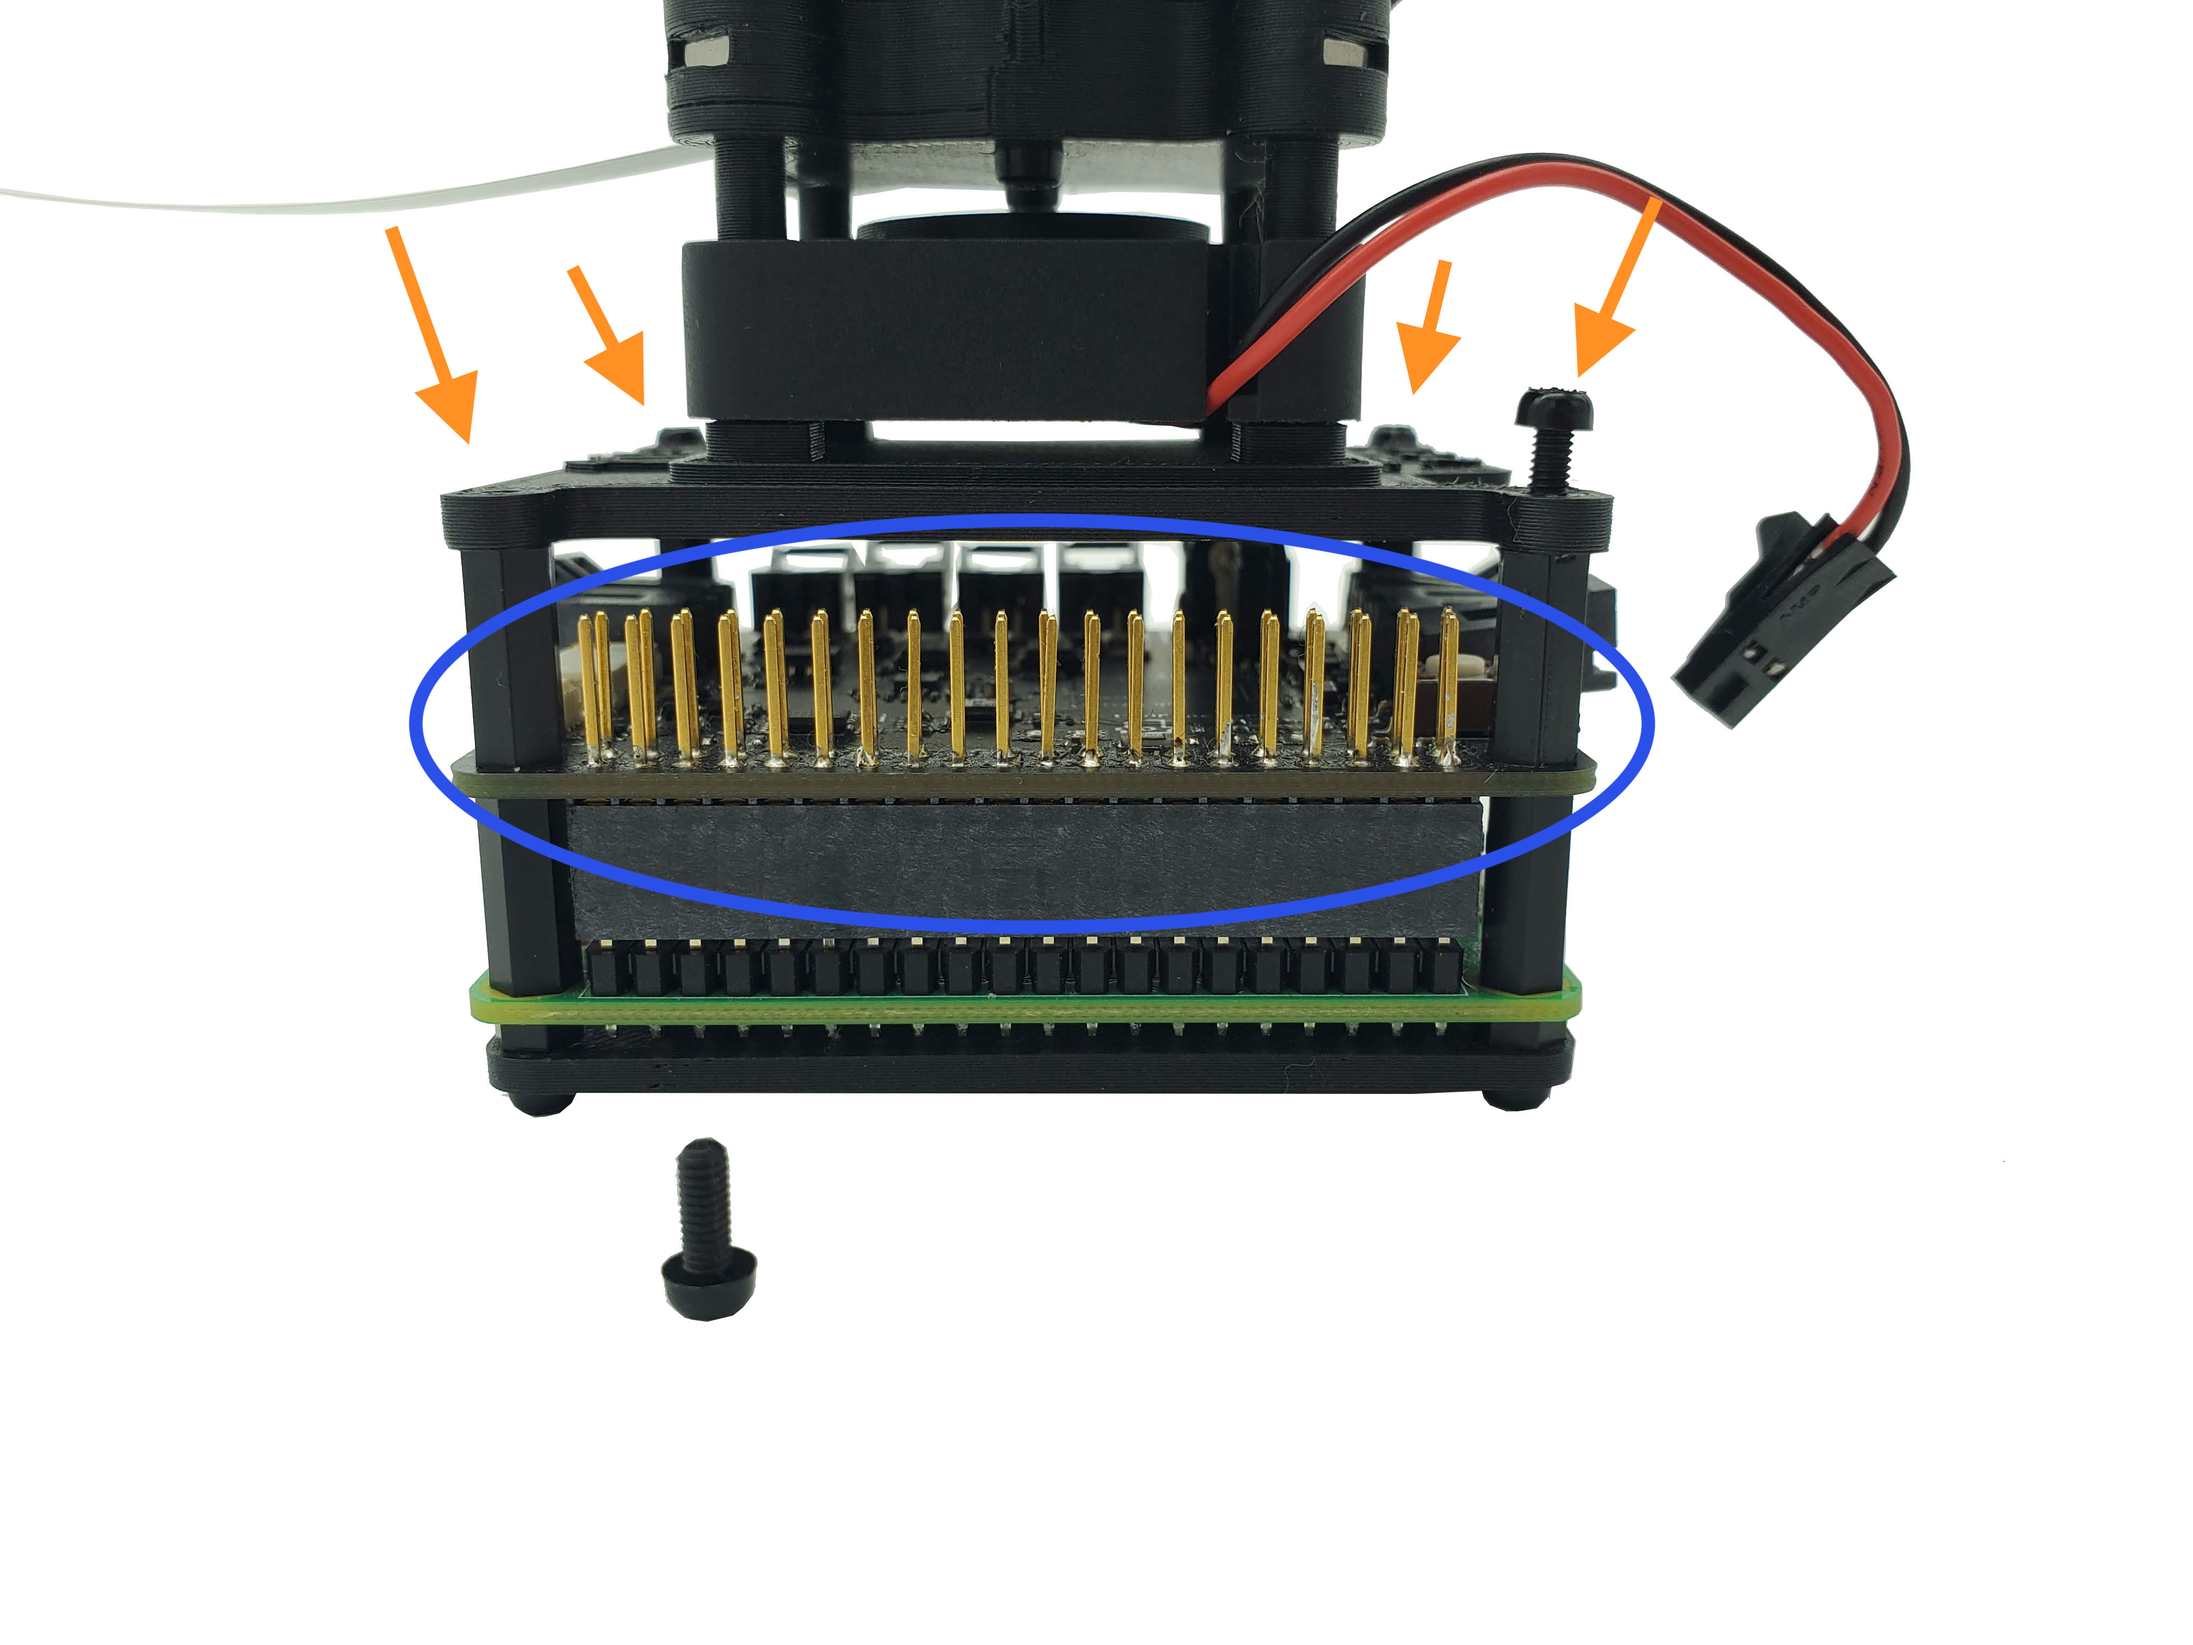
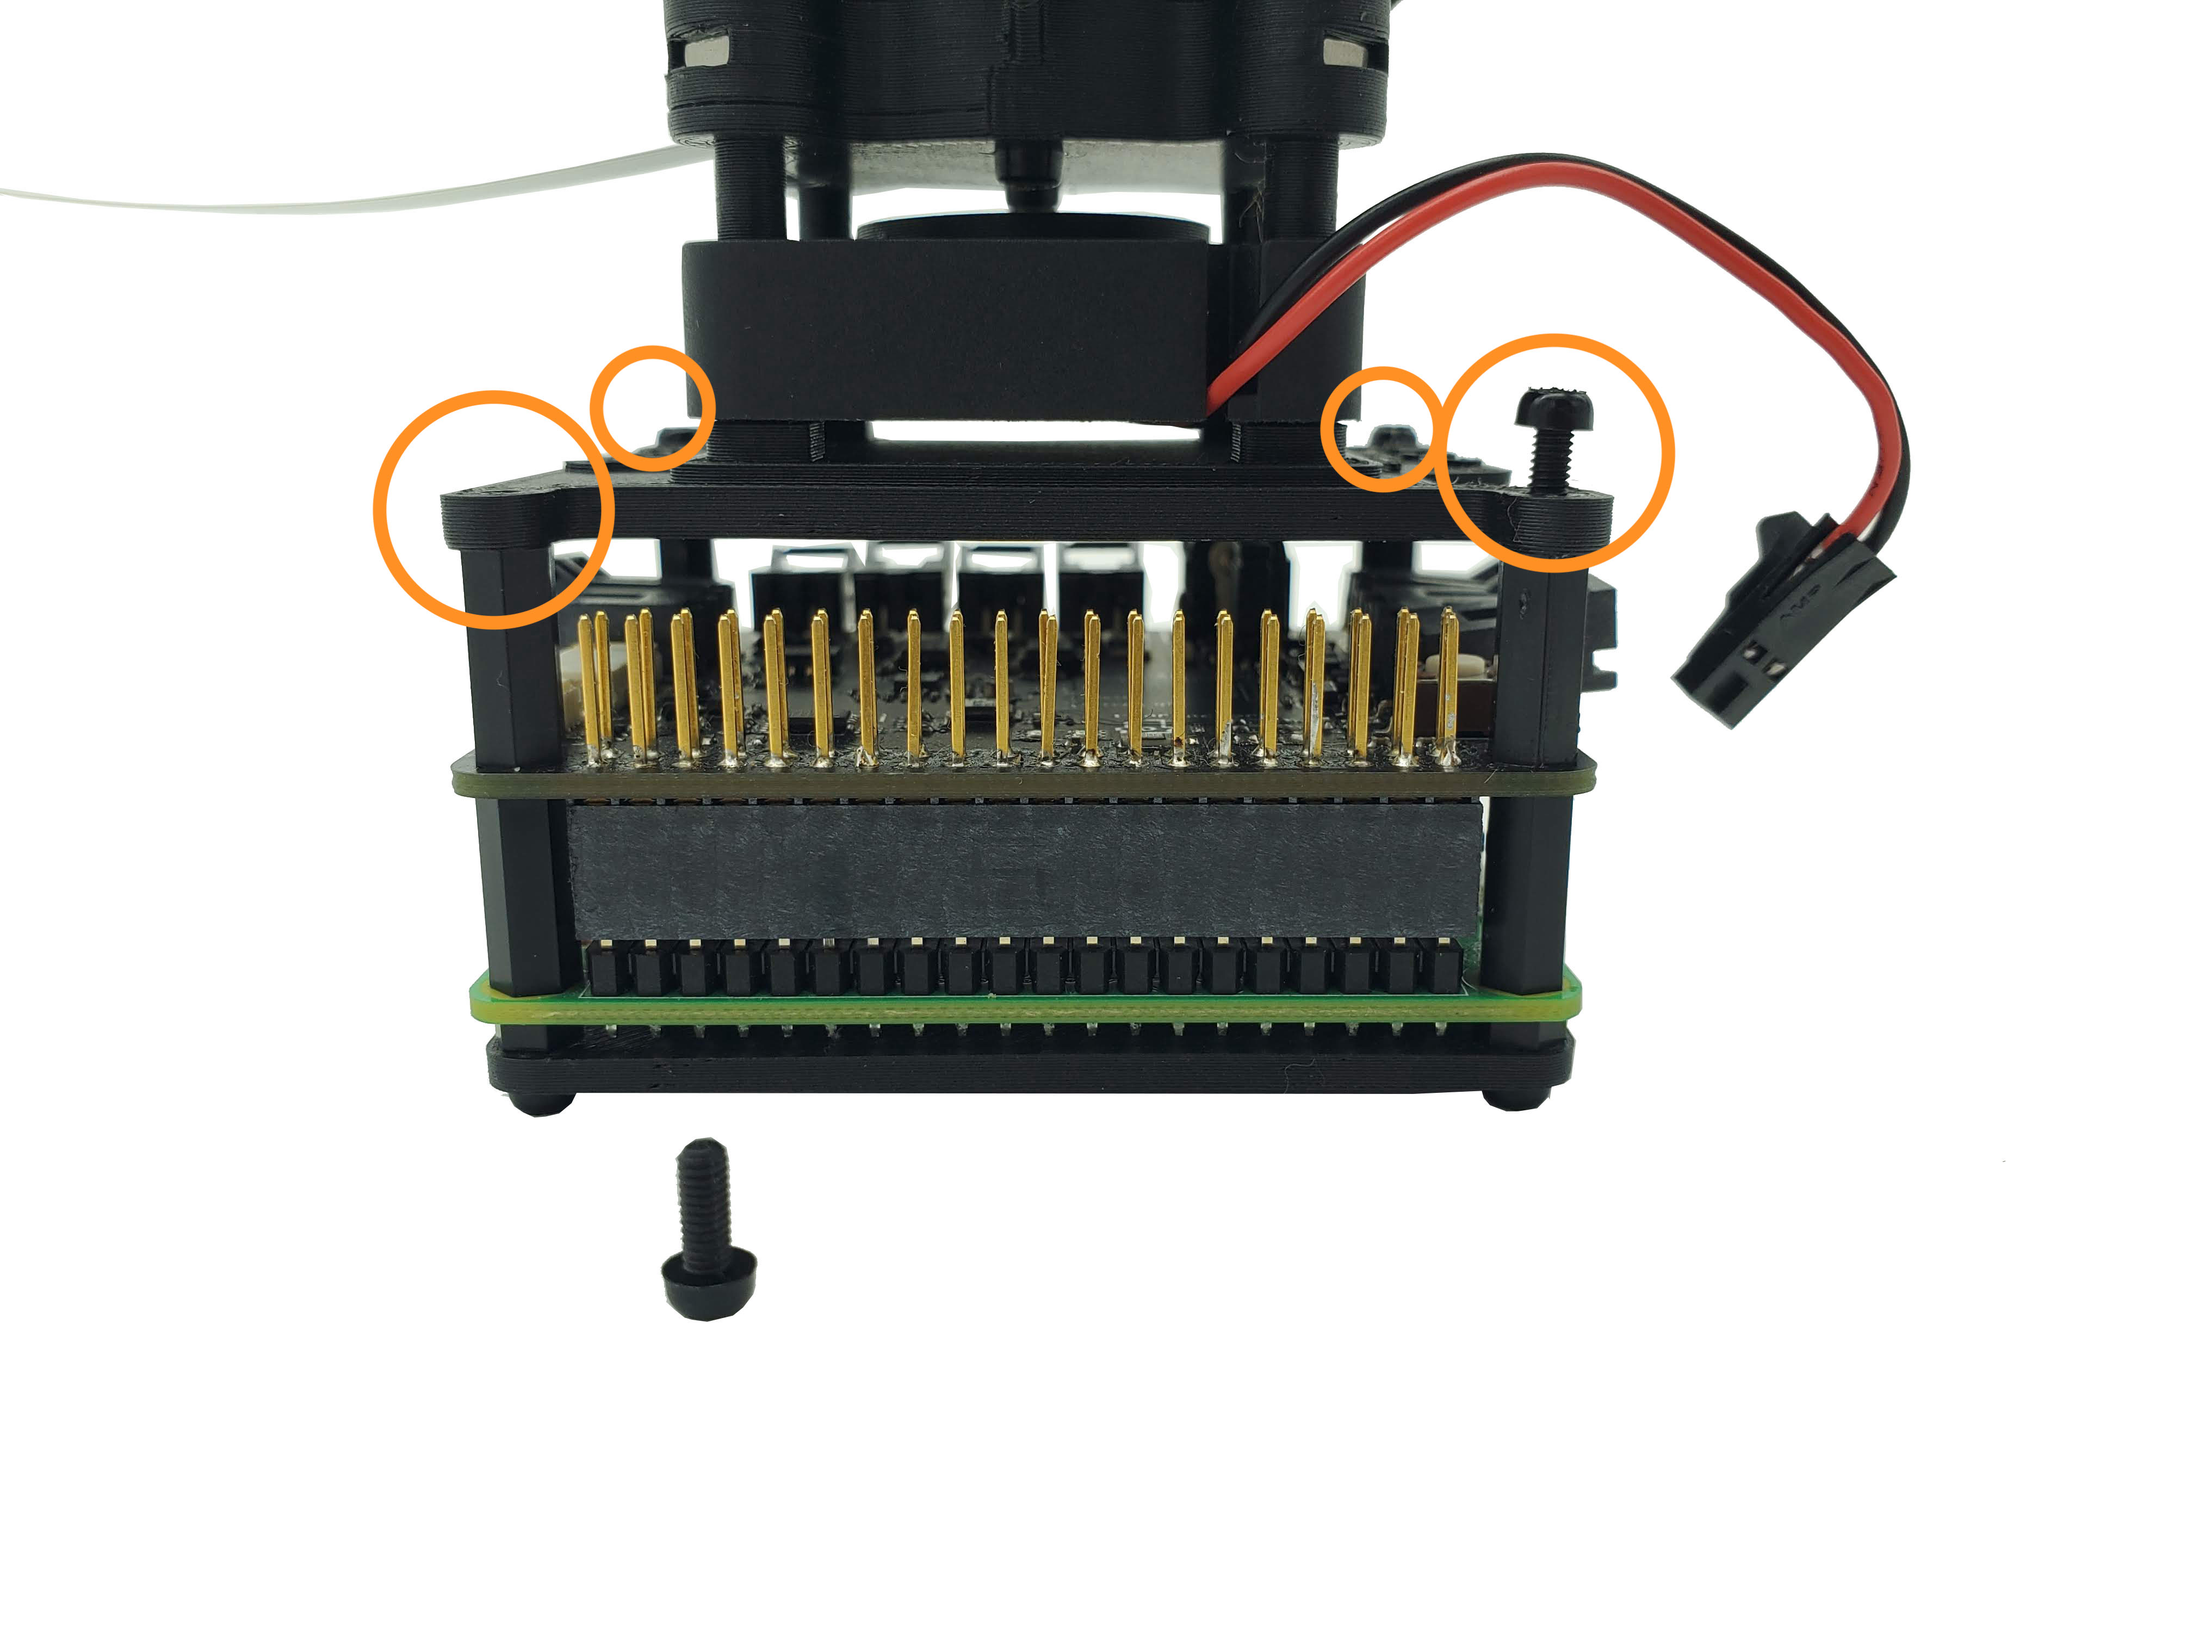
last bits

diff --git a/user-guide/01-getting-started/01-hardware-set-up/04-faceplate-all-together.md b/user-guide/01-getting-started/01-hardware-set-up/04-faceplate-all-together.md
@@ -38,7 +38,7 @@ import * as colors from '@site/src/components/constants';
 
 -----
 
-<AssemblyInstructionBlock title="Putting it all together" images={["screw_top_bottom.jpg"]}>
+<AssemblyInstructionBlock title="Putting it all together" images={["screw_top_bottom_gpio.jpg", "screw_top_bottom.jpg"]}>
 
 1.	Place the top assembly onto the bottom Raspberry Pi/HAT. 
 	*	The <Highlight color={colors.blue}>GPIO pins</Highlight> align with the side notch of the faceplate.
